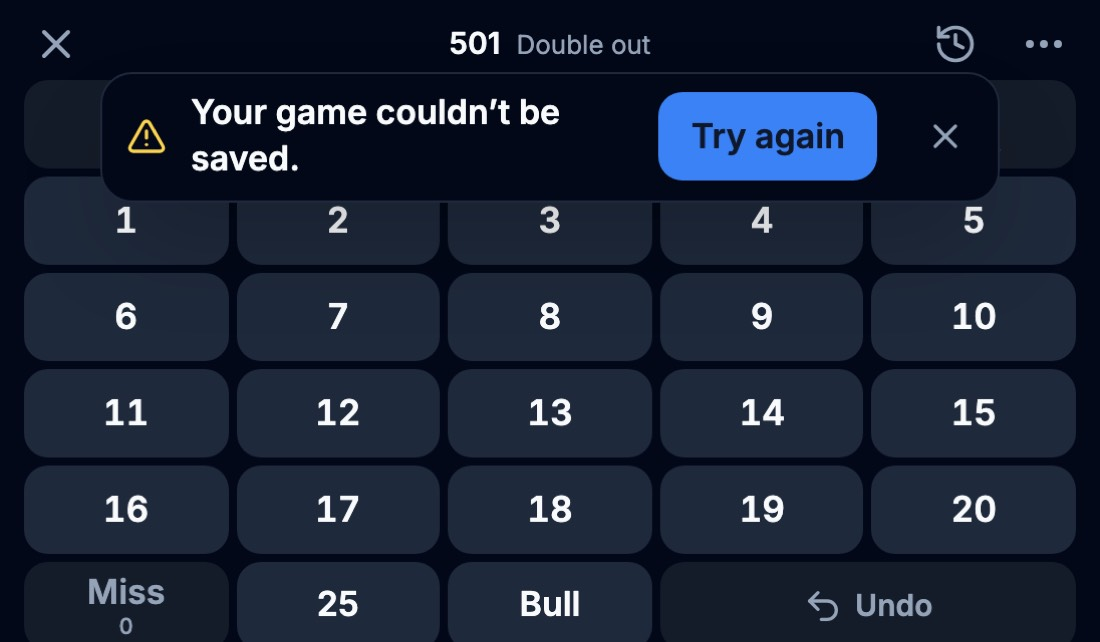
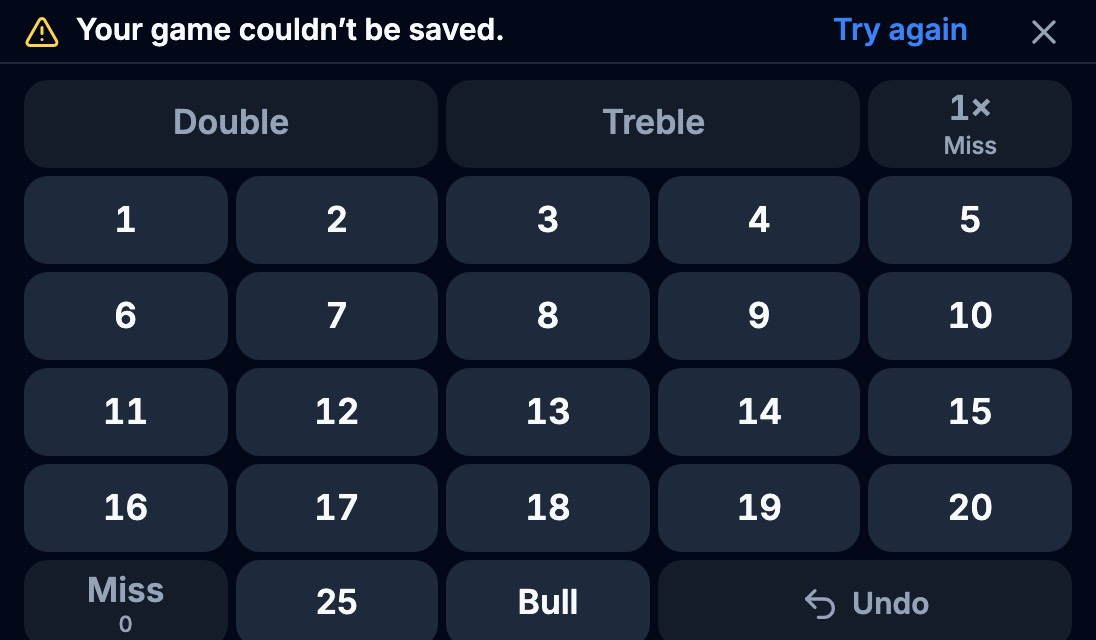
P1.01–P1.03 Review-Runde 1: Prüfskripte, Bilder und Aufgabenkarten
save-alert-layout.mjs prüft in sieben Größen (X01 und Cricket), dass keine Taste unter dem
Speicherhinweis liegt; export-share.mjs prüft „Datei teilen“ nach abgelehntem Teilen und die
Importmeldungen. save-failure.mjs folgt der neuen Meldung nach fehlgeschlagenem Wiederholen.
Bilder des Hinweises neu aufgenommen, Karten P1.01–P1.03 nachgeführt.

diff --git a/docs/implementation/tasks/P1.02.md b/docs/implementation/tasks/P1.02.md
@@ -20,7 +20,7 @@ P1.01 (gleicher Branch).
 ## Geplante Änderung
 
 - Kein Umzug, sondern Doppelschreiben: Das laufende Spiel bleibt in `dart-scorer.current-match.v1`; neue Spiele ab zwei Spielern gehen zusätzlich als 1.0.0-Datensatz nach `dart-scorer.matches.v1`. 1.0.0-Ergebnisse werden bei jedem Start und bei jeder Änderung durch einen anderen Tab idempotent als `imported-v1` übernommen; der 1.0.0-Schlüssel wird dabei nie verändert.
-- Vor dem ersten Schreiben ins Archiv oder in die 1.0.0-Historie wird einmalig eine exakte Rohkopie aller 1.0.0-Schlüssel im Store `kv` abgelegt (`v1-snapshot`) und in jeden Export übernommen.
+- Vor dem ersten Schreiben ins Archiv oder in die 1.0.0-Historie wird einmalig eine exakte Rohkopie aller 1.0.0-Schlüssel im Store `kv` abgelegt (`v1-snapshot`) und in jeden Export übernommen. „Rangliste zurücksetzen“ leert in derselben Schreiboperation auch die Historie in dieser Kopie, damit gelöschte Ergebnisse in keinem Export weiterleben.
 - Unbekannte Einträge in `matches.v1` bleiben erhalten; nur der betroffene Datensatz wird geändert.
 - `lib/game/storage.ts` meldet, ob geschrieben wurde; `lib/storage/save-status.ts` verfolgt den letzten Schreibvorgang je Art; `components/data/storage-alert.tsx` zeigt Hinweis, Wiederholen, Ausblenden und nach Erfolg die Bestätigung. In `app/page.tsx` nur der Speicher-Effekt und der Hinweis.
 - Nicht enthalten: Speichern von Korrekturen als Differenz (Risikobericht SF-05), Web Locks für das laufende Spiel über mehrere Tabs (SF-14), Service-Worker-Änderungen (SF-12, SF-13).
@@ -28,7 +28,9 @@ P1.01 (gleicher Branch).
 ## Fehlerfälle
 
 - localStorage voll beim Schreiben des Spiels: Hinweis erscheint, weitere Würfe funktionieren, „Erneut versuchen“ schreibt den aktuellen Stand; nach Neuladen ist der neueste gespeicherte Stand da.
-- Wiederholen schlägt erneut fehl: konkreter Hinweis, Speicherplatz freizugeben.
+- Wiederholen schlägt erneut fehl: konkreter Hinweis (eigene Meldung mit „OK“), Speicherplatz freizugeben.
+- Der Hinweis liegt im Spiel nur über der Anzeige der Punktestände, nie über einer Taste: Karte mit Erklärung, ohne Erklärung, oder eine Zeile im Band der Navigationsleiste (Telefon quer), je nachdem, was über den Tasten Platz hat.
+- IndexedDB öffnet nicht innerhalb von 5 Sekunden: die wartenden Aufrufe schlagen fehl (ein beendetes Spiel zeigt den Hinweis), die Datenbank wird nicht aufgegeben; sobald sie offen ist, rettet „Erneut versuchen“ das Spiel.
 - Ein älterer, langsamer Schreibvorgang überstimmt keinen neueren.
 - Browser ohne IndexedDB: Spielen und Rangliste funktionieren, die Rangliste überlebt das Neuladen über die 1.0.0-Kopie; Einstellungen › Daten sagt, dass Spieldetails nur bis zum Schließen bleiben.
 - Ein noch offener 1.0.0-Tab beendet ein Spiel: Die neue Version übernimmt es; 1.0.0 behält beim Umschreiben seiner Liste alle Datensätze der neuen Version.
@@ -40,6 +42,8 @@ P1.01 (gleicher Branch).
 | 1.0.0-Leser (eingefrorene Kopien von `loadMatch`, `loadSettings`, `loadLastPlayers`, `loadRules`, `loadLastGame`, `recordMatch`/`readMatches`, `computeStandings`) lesen Daten der neuen Version | `tests/storage-v1.test.ts`, `tests/fixtures/v1/` |
 | Doppelschreiben, Rohkopie, Übernahme, Fehlermeldung | `tests/storage-archive.test.ts`, `tests/storage-v1.test.ts` |
 | Schreibfehler im Browser (simuliertes QuotaExceededError) in 390×844, 320×548, 548×320, 1024×768, hell und dunkel, Deutsch und Englisch | [evidence/P1/scripts/save-failure.mjs](../evidence/P1/scripts/save-failure.mjs) |
+| Review-Runde 1: keine Taste unter dem Hinweis (X01 und Cricket; 320×548, 548×320, 568×320, 844×390, 390×844, 768×1024, 1024×768) | [evidence/P1/scripts/save-alert-layout.mjs](../evidence/P1/scripts/save-alert-layout.mjs) |
+| Review-Runde 1: langsam öffnende Datenbank, Rangliste zurücksetzen und Export | `tests/storage-db.test.ts`, `tests/storage-archive.test.ts`, `tests/storage-data.test.ts` |
 | Zwei Tabs, alter 1.0.0-Tab, Browser ohne IndexedDB | [evidence/P1/scripts/tabs.mjs](../evidence/P1/scripts/tabs.mjs) |
 | Bilder | [evidence/P1/screens/](../evidence/P1/screens/) |
 
@@ -53,7 +57,7 @@ P1.01 (gleicher Branch).
 | nostr-core-Version | Nicht verwendet |
 | Ausgeführte Prüfungen | Wie P1.01 (4. Oktober 2026). Zusätzlich im Browser: Schreibfehler in vier Größen ohne Seitenfehler, zwei Tabs bleiben ohne Neuladen gleich, Löschen in einem Tab setzt den anderen zurück, Browser ohne IndexedDB. |
 | Nicht ausgeführte Prüfungen | Echter Rückweg per Netlify-Rollback auf 1.0.0 (nur mit den eingefrorenen 1.0.0-Lesern geprüft); echter voller Speicher auf Geräten; Safari-Privatmodus; installierte PWA über ein Update hinweg mit offenem Spiel (SF-11) |
-| Verbleibende Einschränkungen | Das laufende Spiel bleibt „letzter Schreiber gewinnt“ zwischen zwei Tabs (wie 1.0.0). Öffnet IndexedDB nicht innerhalb von 5 Sekunden, arbeitet die Seite bis zum Neuladen im Seitenspeicher. |
+| Verbleibende Einschränkungen | Das laufende Spiel bleibt „letzter Schreiber gewinnt“ zwischen zwei Tabs (wie 1.0.0). Solange IndexedDB nicht geöffnet ist, sagt Einstellungen › Daten vorsichtshalber, dass Spieldetails nur bis zum Schließen bleiben (nach dem nächsten Öffnen der Einstellungen stimmt die Angabe wieder). |
 
 ## Nächster Schritt
 

diff --git a/docs/implementation/tasks/P1.03.md b/docs/implementation/tasks/P1.03.md
@@ -42,6 +42,7 @@ Sollwerte von Hand berechnet in `tests/storage-fixtures.ts`, unter anderem:
 | Export, Löschen, Import im Kreis, Prüfung fremder Dateien | `tests/storage-data.test.ts` |
 | Browser: Export, Löschen, Import, erneuter Import, falsche Datei | [evidence/P1/scripts/upgrade.mjs](../evidence/P1/scripts/upgrade.mjs) |
 | Bilder Einstellungen › Daten, Bestätigung, Importergebnis | [evidence/P1/screens/](../evidence/P1/screens/) |
+| Review-Runde 1: Teilen nach abgelaufener Tipp-Berechtigung („Datei teilen“), Importmeldungen für unlesbare, leere und bekannte Dateien (Chromium-Emulation mit nachgebildetem Teilen-Sheet) | [evidence/P1/scripts/export-share.mjs](../evidence/P1/scripts/export-share.mjs) |
 
 ## Ergebnis
 
@@ -52,7 +53,7 @@ Sollwerte von Hand berechnet in `tests/storage-fixtures.ts`, unter anderem:
 | Prüfcommit | Der Commit, der diese Karte einführt |
 | nostr-core-Version | Nicht verwendet |
 | Ausgeführte Prüfungen | Wie P1.01 (4. Oktober 2026). Im Browser: Export als Download (`blueline-daten-2026-10-04.json`), Löschen leert alle Stores und 1.0.0-Schlüssel (danach schreibt die App beim Start wie 1.0.0 nur `settings.v1`), Import stellt Spiele, Spieler und Zuordnungen wieder her, zweiter Import meldet „Nichts Neues“. |
-| Nicht ausgeführte Prüfungen | Teilen-Sheet auf echten iPhones und Android-Geräten; Lesen des Exports mit einem unabhängigen Programm außer `JSON.parse` (A20 vollständig erst mit P3b.03) |
+| Nicht ausgeführte Prüfungen | Teilen-Sheet auf echten iPhones und Android-Geräten (auch nicht der Weg über „Datei teilen“, wenn Safari das erste Teilen ablehnt); Lesen des Exports mit einem unabhängigen Programm außer `JSON.parse` (A20 vollständig erst mit P3b.03) |
 | Verbleibende Einschränkungen | „Alle Daten löschen“ löscht künftig auch lokale Profilschlüssel in IndexedDB; sobald P2 Profile speichert, braucht die Bestätigung einen eigenen Hinweis auf eine fehlende Sicherung. |
 
 ## Nächster Schritt

diff --git a/docs/implementation/tasks/P1.01.md b/docs/implementation/tasks/P1.01.md
@@ -52,7 +52,7 @@ P0.01 (in Prüfung). Keine Nutzerentscheidung nötig.
 | nostr-core-Version | Nicht verwendet (der Speicherbereich lädt kein nostr-core) |
 | Ausgeführte Prüfungen | 4. Oktober 2026, Node 25.2.1: `lint` ohne Meldung, `typecheck` bestanden, `test` 111/111 (davon 71 neue Speichertests), `build` bestanden; `test` zusätzlich unter Node 22.23.2 111/111. Browser (Chromium aus Playwright, Produktionsbuild): Upgrade-Ablauf 390×844 dunkel und 320×548 hell, Endzeit nach Neuladen unverändert, Zuordnen und Trennen, Gastweg ohne Anfragen an fremde Adressen. |
 | Nicht ausgeführte Prüfungen | Echte Geräte (iPhone, iPad, Android), Safari und Firefox, installierte PWA, VoiceOver |
-| Verbleibende Einschränkungen | Startseite 46,6 kB → 54,3 kB, First Load JS 246 kB → 256 kB (Speicherkern, Rangliste, Hinweis; Export, Import und Löschen werden erst beim Tippen geladen). |
+| Verbleibende Einschränkungen | Startseite 46,6 kB → 55,3 kB, First Load JS 246 kB → 257 kB (Speicherkern, Rangliste, Hinweis; Export, Import und Löschen werden erst mit Einstellungen geladen, nie beim Start). |
 
 ## Nächster Schritt
 
